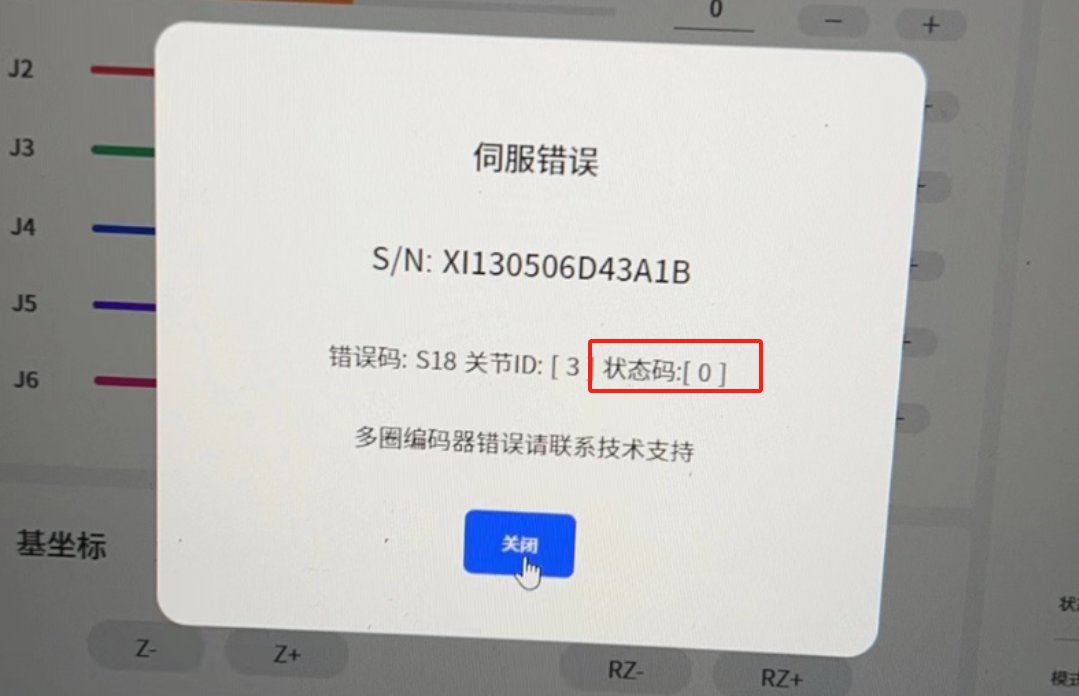
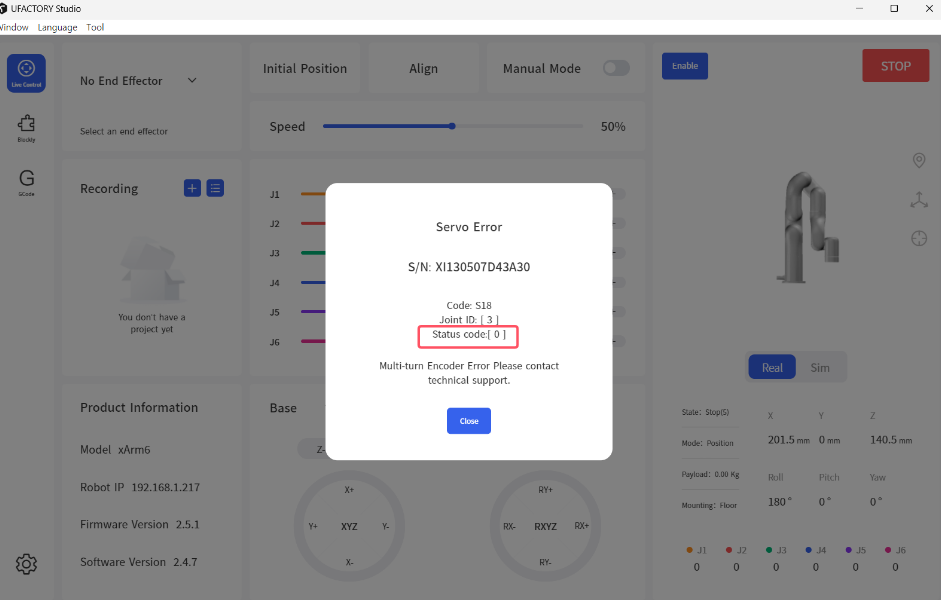
update

diff --git a/zhHans/support_articles/faq/how-to-use-robotiq-gripper-on-xarm-tool-end.md b/zhHans/support_articles/faq/how-to-use-robotiq-gripper-on-xarm-tool-end.md
@@ -12,7 +12,7 @@
 
 1）pin针定义
 
-![image](../assets/8.png)
+![image](../assets/RobotiqGripper.png)
 
 2）连接
 
@@ -33,19 +33,19 @@
 
 TCP负载和偏移：设置-运动参数-TCP设置
 
-![image](../assets/9.png)
+![image](../assets/RobotiqGripper_2.png)
 
 防自碰撞模型：设置-实时控制-末端执行器“，选择Robotiq 机械爪
 
-请选择“是的"，这会把波特率设置为115200，默认波特率是2000000
+请选择“是"，这会把波特率设置为115200，默认波特率是2000000
 
-![image](../assets/10.png)
+![image](../assets/RobotiqGripper_3.png)
 
 2）通过python SDK设置参数
 
 波特率：
 
-```
+```python
 //Code example
 # Modify the baud rate to 115200, the default is 2000000.
 arm.set_tgpio_modbus_baudrate(115200)  
@@ -54,7 +54,7 @@ arm.set_tgpio_modbus_baudrate(115200)
 
 TCP负载和偏移设置：
 
-```
+```python
 
 # Robotiq 2F/85 Gripper
 arm.set_tcp_load(0.925, [0, 0, 58])
@@ -69,7 +69,7 @@ arm.save_conf()
 
 防自碰撞模型
 
-```
+```python
 # Robotiq 2F/85 Gripper
 arm.set_collision_tool_model(4)
 
@@ -81,22 +81,24 @@ arm.set_collision_tool_model(5)
 
 1）通过UFactory Studio控制
 
-![image](../assets/11.png)
+![image](../assets/RobotiqGripper_4.png)
 
 Ufactory Studio-Blockly
 
-![image](../assets/12.png)
+![image](../assets/RobotiqGripper_5.png)
 2)通过python SDK控制
 
-```
+```python
+
 arm.set_tgpio_modbus_baudrate(115200)  
 arm.robotiq_reset()
 arm.robotiq_set_activate()    #enable the robotiq gripper
 arm.robotiq_close()
 arm.robotiq_open()
+
 ```
 
-注意：
+**注意：**
 
 1-当使用SDK去控制爪子时，不需要发送CRC，我们会自动添加它
 

diff --git a/zhHans/support_articles/developer/kinematic-and-dynamic-parameters/lite6.md b/zhHans/support_articles/developer/kinematic-and-dynamic-parameters/lite6.md
@@ -6,9 +6,9 @@
 
 **1.修改DH参数**
 
-| Size Parameters: (unit:mm)        | Joint Coordinate Definition              |
-|-----------------------------------| ---------------------------------------- |
-| ![image](../assets/image(30).png) | ![image](../assets/image(31).png)|
+| Size Parameters: (unit:mm)      | Joint Coordinate Definition     |
+|---------------------------------|---------------------------------|
+| ![image](../assets/lite6_1.png) | ![image](../assets/lite6_2.png) |
 
 
 
@@ -23,9 +23,9 @@
 
 **2.标准DH参数**
 
-| Size Parameters: (unit:mm)                  | Joint Coordinate Definition              |
-| ------------------------------------------- | ---------------------------------------- |
-| ![image](../assets/image(33).png) | ![image](../assets/image(34).png)|
+| Size Parameters: (unit:mm)      | Joint Coordinate Definition     |
+|---------------------------------|---------------------------------|
+| ![image](../assets/lite6_3.png) | ![image](../assets/lite6_4.png) |
 
 
 | Kinematics | theta offset(deg) | d(mm) | alpha(deg) | a(mm) |
@@ -42,9 +42,9 @@
 
 
 
-| Size Parameters: (unit:mm)                  | Joint Coordinate Definition                 |
-| ------------------------------------------- | ------------------------------------------- |
-| ![image](../assets/image(35).png) | ![image](../assets/image(36).png)|
+| Size Parameters: (unit:mm)       | Joint Coordinate Definition     |
+|----------------------------------|---------------------------------|
+| ![image](../assets/lite6_5.png) | ![image](../assets/lite6_6.png) |
 
 
 | Dynamics | Mass(kg) | Center of Mass(mm)   |

diff --git a/zhHans/support_articles/developer/firmware/how-to-update-the-joint-firmware-of-xarm-1305-and-uf850.md b/zhHans/support_articles/developer/firmware/how-to-update-the-joint-firmware-of-xarm-1305-and-uf850.md
@@ -14,16 +14,20 @@
  如果驱动版本低于 **V5.0.8**，请按照以下步骤升级到 **V5.0.8**。
 * 5-升级驱动
 
-  1\)在工具中选择 **1300/850 测试工具**。
+  1\) 在工具中选择 **1300/850 测试工具**。
   
-  2\)选择 **[所有关节驱动板]**，点击 **[获取关节SN]** ,然后点击 **[安装驱动]**。
+  2\) 选择 **[所有关节驱动板]**，点击 **[获取关节SN]** ,然后点击 **[安装驱动]**。
 
-![](../assets/img77.png)
+![](../assets/update_joint_firmware_1.png)
 
 
 * 6-按下急停按钮，等待 5 秒后松开，点击 **[下一步]**。工具将自动开始升级。
 
-![](../assets/img78.png)
+
+
+![](../assets/update_joint_firmware_2.png)
+
+
 
 
 ### 3.完成升级

diff --git a/en/support_articles/developer/firmware/how-to-update-the-joint-firmware-of-xarm-1305-and-uf850.md b/en/support_articles/developer/firmware/how-to-update-the-joint-firmware-of-xarm-1305-and-uf850.md
@@ -10,22 +10,22 @@ Please contact technical support<[[email redacted]](mailto:support@ufactory.c
 2. Enable the robot.
 3. Enter Robot IP, and click Connect. It will show the servo version, as the picture below, it's V5.0.7.
 
-![](../../assets/image(2).png)
+![](../../assets/update_joint_firmware_1.png)
 
 4. Switch to '1300/850 Test tool', choose 'Driver board for all joint', click 'Get Joint SN', it will show the SN of each joint.
 
-![](../../assets/image(1)(1).png)
+![](../../assets/update_joint_firmware_2.png)
 
 5. Click 'Install driver', **press down the E STOP button and release**, then click 'Next'.
 
 It will load the joint firmware from ...\resources\firmwares\850\_1305board automatically,  wait for 1-2 minutes, the arm will reboot itself.
 
-![](../../assets/image(2)(1).png)
+![](../../assets/update_joint_firmware_3.png)
 
-![](../../assets/image(3).png)
+![](../../assets/update_joint_firmware_4.png)
 
 6. Reconnect the arm again, check the Servo version.
 
 See the below picture, it is updated to V5.0.8.
 
-![](../../assets/image(4).png)
+![](../../assets/update_joint_firmware_5.png)

diff --git a/zhHans/support_articles/software/how-to-update-the-firmware-and-ufactory-studio-of-robotic-arm.md b/zhHans/support_articles/software/how-to-update-the-firmware-and-ufactory-studio-of-robotic-arm.md
@@ -21,7 +21,9 @@ SDK: https://github.com/xArm-Developer
   进入 “设置-我的设备-检查更新"，点击 ”检查更新“，如果有新版本，点击 “下载”，点击 ”安装“，加载下载的安装包，等待系统重启。 重新启动大约需要 2-3 分钟。
 
 
-![](../assets/22.png)
+![](../assets/update_1.png)
+
+
 
 ## 2.离线升级：当 PC 没有网络连接时。
 
@@ -31,7 +33,9 @@ SDK: https://github.com/xArm-Developer
 
 进入设置-我的设备-检查更新，点击 "安装" 加载预先下载的离线软件包，等待系统重启，需要 2-3 分钟。
 
-![](../assets/23.png)
+![](../assets/update_2.png)
+
+
 
 * 使用 xArm-tool-gui 工具进行离线升级：
 
@@ -42,4 +46,4 @@ SDK: https://github.com/xArm-Developer
 2) 点击【xArmStudio】-【离线安装】，选择事先下载的离线软件包，点击【安装】，界面弹出提示 "安装成功"。
 3) 单击【重启控制盒】，等待 2-3 分钟让控制器完成重启并重新连接。
 
-![](../assets/24.png)
+![](../assets/update_3.png)

diff --git a/en/support_articles/faq/how-to-use-robotiq-gripper-on-xarm-tool-end.md b/en/support_articles/faq/how-to-use-robotiq-gripper-on-xarm-tool-end.md
@@ -34,13 +34,13 @@ The main parameter is the Baud rate, TCP offset, TCP payload, and self-collision
 
 TCP Payload and offset: 'Settings-Motion-TCP'.
 
-![](../assets/image(10).png)
+![](../assets/RobotiqGripper_2.png)
 
 Self-collision prevention model: 'Settings-Live Control-End Effector', choose Robotiq Gripper.
 
 Please choose 'yes', It will set the baud rate to 115200, the default baud rate is 2000000.
 
-![](../assets/image(53).png)
+![](../assets/RobotiqGripper_3.png)
 
 ### 2)Config the parameter via Python SDK
 
@@ -89,13 +89,13 @@ UFactory Studio - Live Control:
 
 
 
-![](../assets/image(4)(1)(1)(1).png)
+![](../assets/RobotiqGripper_4.png)
 
 
 
 UFactory Studio - Blockly:
 
-![](../assets/image(5)(1)(1).png)
+![](../assets/RobotiqGripper_5.png)
 
 ### 2) Control it via Python SDK
 

diff --git a/en/support_articles/hardware/how-to-verify-the-digital-input-and-output-are-normal.md b/en/support_articles/hardware/how-to-verify-the-digital-input-and-output-are-normal.md
@@ -16,13 +16,15 @@ Connect the pin module back to controller's IO.
 
 1\) Enter 'Settings-Externals-Controller IO', CI0 & CI1 should in 1(high level).
 
-![image](../assets/image(5).png)
+![image](../assets/CI0_CI1.png)
 
 
 2\) Switch to 'Robot IO', set TO0 & TO1 to 1(high level).
 
-![](../assets/img.png)
+
+![img_1.png](../assets/TO0_TO1.png)
+
 
 3\) Go back to 'Controller IO',  CI0 & CI1 should be changed to 0(low level).
 
-![image](../assets/img3.png)
+![image](../assets/CI0_CI1_2.png)

diff --git a/en/support_articles/software/how-to-judge-whether-the-joint-servo-zero-point-is-lost.md b/en/support_articles/software/how-to-judge-whether-the-joint-servo-zero-point-is-lost.md
@@ -23,7 +23,8 @@ Application scenario: If the TCP payload is set correctly, and the collision det
 3. Enter the IP of the controller, and press enter.
 4. Wait for 2-3 minutes, it will automatically generate a CSV file.
 
-![](../assets/3.png)
+
+![img_1.png](../assets/e_read_mmu.png)
 
 ### Get a diagram of the current
 
@@ -38,7 +39,7 @@ Please follow the steps to check the current of the corresponding joint.
 
 The current should be around 2A, please send the screenshot to [[email redacted]](mailto:[email redacted]) for double check.
 
-![](../assets/image(1)(1)(1)(1)(1).png)
+![](../assets/blockly_project.png)
 
-![](../assets/image(5)(1).png)
+![](../assets/current_diagram.png)
 

diff --git a/en/support_articles/hardware/what-should-i-do-if-i-swap-the-robot-control-box.md b/en/support_articles/hardware/what-should-i-do-if-i-swap-the-robot-control-box.md
@@ -6,15 +6,15 @@ Each xArm/UF850 should come with a control box, and there’s no problem replaci
 
 Export and import the configuration file easily to the new control box via 'Settings-General-Advanced Settings-Logic-Export/Import Configuration'.
 
-![](../assets/image(37).png)
+![](../assets/export_config_file.png)
 
 **2. ‘Blcokly Project’ and ‘Recording File’**
 
 Export and import the projects via the ‘Blockly’/’Recording’ module.
 
-![](../assets/image(1)(1)(1)(1)(1)(1)(1)(1)(1)(1)(1)(1).png)
+![](../assets/blockly_import_download.png)
 
-![](../assets/image(2)(1)(1)(1)(1)(1)(1).png)
+![](../assets/recording_traj.png)
 
 **3. Friction parameters**
 

diff --git a/zhHans/support_articles/developer/kinematic-and-dynamic-parameters/ufactory-850.md b/zhHans/support_articles/developer/kinematic-and-dynamic-parameters/ufactory-850.md
@@ -23,9 +23,9 @@
 
 **2.标准DH参数**
 
-| Size Parameters: (unit:mm)                  | Joint Coordinate Definition                 |
-| ------------------------------------------- | ------------------------------------------- |
-| ![image](../assets/image(20).png) | ![image](../assets/image(22).png)|
+| Size Parameters: (unit:mm)                            | Joint Coordinate Definition                 |
+|-------------------------------------------------------| ------------------------------------------- |
+| ![image](../assets/850_StandardDH_and_Dynamics_1.png) | ![image](../assets/image(22).png)|
 
 
 | Kinematics | theta offset(deg) | d(mm) | alpha(deg) | a(mm) |

diff --git a/zhHans/support_articles/software/how-to-judge-whether-the-joint-servo-zero-point-is-lost.md b/zhHans/support_articles/software/how-to-judge-whether-the-joint-servo-zero-point-is-lost.md
@@ -24,7 +24,7 @@
 
 4. 等待2-3分钟后，程序将自动生成一个csv文件
 
-![](../assets/3.png)
+![](../assets/e_read_mmu.png)
 
 ## 获取电流图表
 
@@ -44,6 +44,6 @@
 
 电流应该为2A左右，请把截图发我们确认。
 
-![](../assets/4.png)
+![](../assets/blockly_project.png)
 
-![](../assets/5.png)
+![](../assets/current_diagram.png)

diff --git a/en/support_articles/software/how-to-solve-s18-error.md b/en/support_articles/software/how-to-solve-s18-error.md
@@ -9,7 +9,7 @@ UFactory version: V2.4.0+
 
 Please note that if the arm is not used for a long time(**≥3 months**), you need to power on the arm for 6 hours every 3 months to charge the built-in battery of the arm, otherwise the encoder data may be lost and report S18 error.
 
-![](../assets/image.png)
+![](../assets/S18.png)
 
 ### Status code=0:
 
@@ -19,7 +19,7 @@ There is a status code of S18 error. If the status code is 0, please enter 'Sett
 
 For example, H101D0813V256I3.
 
-![](../assets/image(1).png)
+![](../assets/S18_2.png)
 
 
 